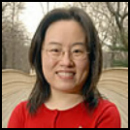
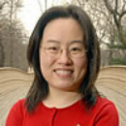
20180417

diff --git a/website/index.html b/website/index.html
@@ -429,7 +429,7 @@
                             <!--single-speaker-->
                             <div class="col-md-12">
                                 <div class="single-speaker shadow-box text-center">
-                                    <img src="img/team/team01.jpg" alt="">
+                                    <img src="img/team/qingao.jpg" alt="">
                                     <h4 class="speaker-name uppercase"><strong>Qin Gao,</strong></h4>
                                     <h4 class="speaker-name uppercase"><strong>Ph.D.</strong></h4>
                                     <div class="social-icon">
